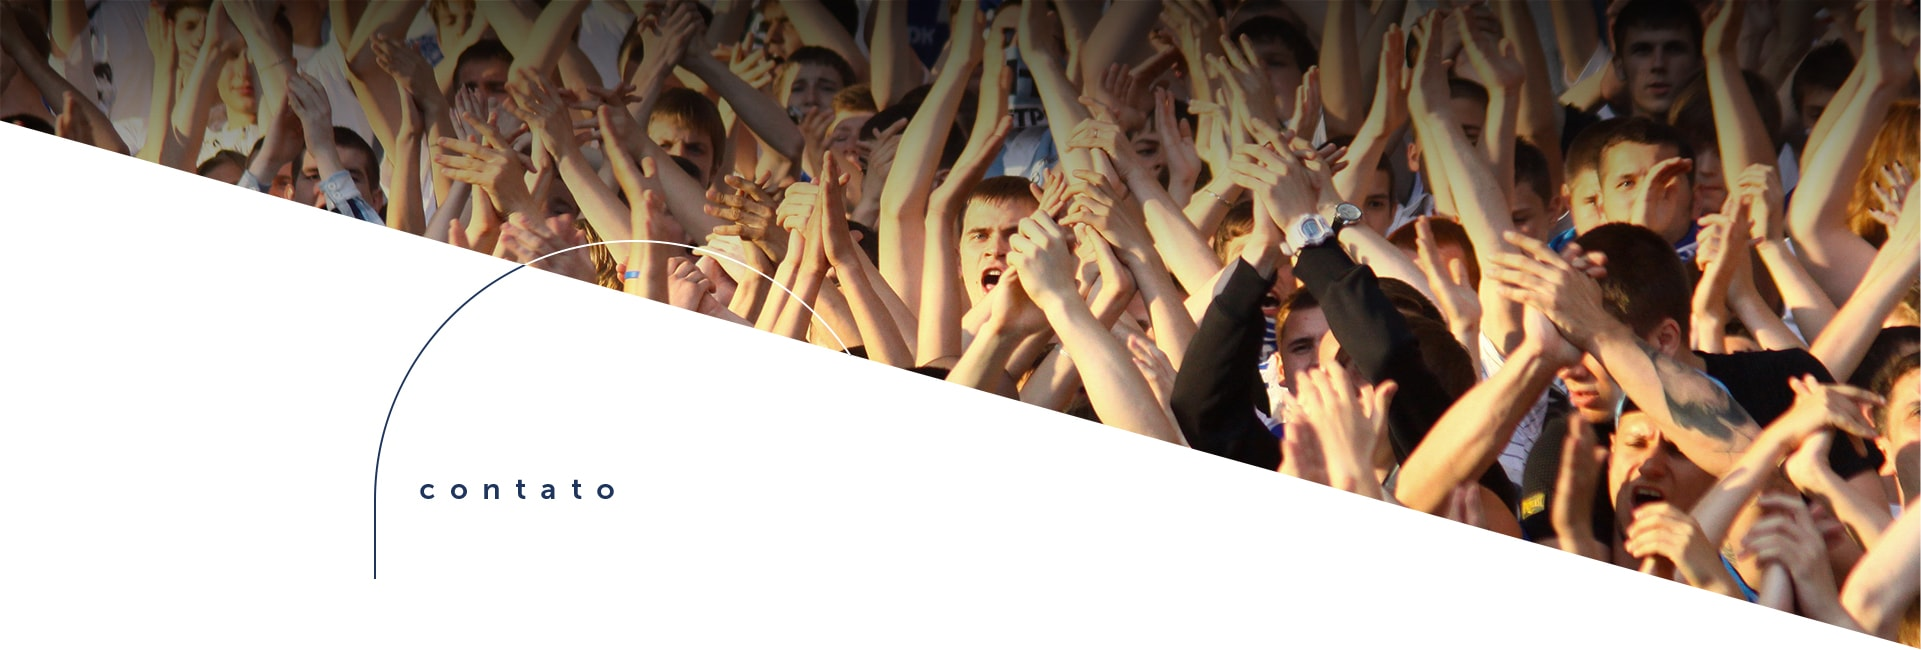
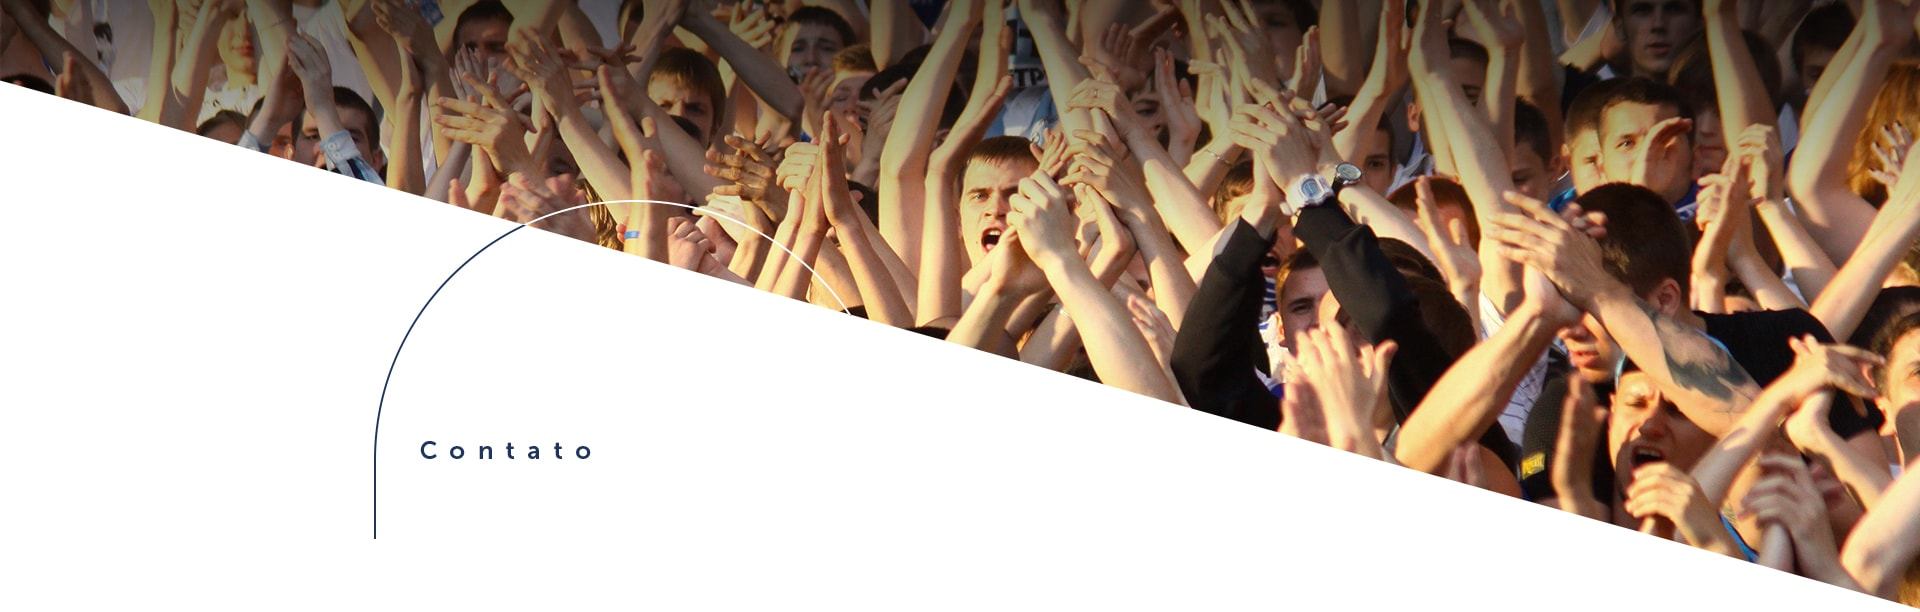
Ajustes layout

diff --git a/bsm/contato.html b/bsm/contato.html
@@ -35,36 +35,35 @@
                         </button>
                         <ul class="top-nav__link pages-menu hidden">
                             <li class="top-nav__link-first">
-                                <a href="index.html" class="top-nav__link-first" title="menu">menu</a>
+                                <a  class="top-nav__link-first" title="menu">Menu</a>
                             </li>
                             <li>
-                                <a href="" title="sobre">sobre</a>
+                                <a href="" title="sobre">Sobre</a>
                             </li>
                             <li>
-                                <a href="" title="brand">brand</a>
+                                <a href="" title="Boutique Sponsorship">Boutique Sponsorship</a>
                             </li>
                             <li>
-                                <a href="" title="mídia">mídia</a>
+                                <a href="" title="mídia">Mídia</a>
                             </li>
                             <li>
-                                <a href="" title="esportes & educação">esportes & educação</a>
+                                <a href="" title="esportes & educação">Sportes & Educação</a>
                             </li>
                             <li>
-                                <a href="" title="BSM no mundo">BSM no mundo</a>
+                                <a href="" title="BSM no mundo">BSM no Mundo</a>
                             </li>
                             <li>
-                                <a href="contato.html" title="contato">contato</a>
+                                <a href="contato.html" title="contato">Contato</a>
                             </li>
                         </ul>
 
                         <!-- Menu Mundos -->
-
                         <ul class="top-nav__link col-md-12 worlds-menu hidden">
                             <li class="col-md-12">
                                 <a class="top-nav__link-first" title="menu">BSM no mundo</a>
                             </li>
                             <li class="col-md-4">
-                                <a href="" title="BSM no mundo" class="col-md-12">américas</a>
+                                <a title="Américas" class="col-md-12">Américas</a>
                                 <ul class="col-md-12">
                                     <li>
                                         <ul>
@@ -88,11 +87,11 @@
                                             <li><span>México</span></li>
                                             <li class="worlds-menu-sub">Cidade do México</li>
                                         </ul>
-                                    </li>                                    
+                                    </li>
                                 </ul>
                             </li>
                             <li class="col-md-4">
-                                <a href="" title="BSM no mundo" class="col-md-12">europa</a>
+                                <a title="Europa" class="col-md-12">Europa</a>
                                 <ul class="col-md-12">
                                     <li>
                                         <ul>
@@ -103,11 +102,11 @@
                                             <li><span>PORTUGAL</span></li>
                                             <li class="worlds-menu-sub">Lisboa</li>
                                         </ul>
-                                    </li>                                    
+                                    </li>
                                 </ul>
                             </li>
                             <li class="col-md-4">
-                                <a href="" title="BSM no mundo" class="col-md-12">ásia</a>
+                                <a title="Ásia" class="col-md-12">Ásia</a>
                                 <ul class="col-md-12">
                                     <li>
                                         <ul>
@@ -126,11 +125,10 @@
                                             <li><span>EMIRADOS ÁRABES UNIDOS</span></li>
                                             <li class="worlds-menu-sub">Dubai</li>
                                         </ul>
-                                    </li>                                    
+                                    </li>
                                 </ul>
                             </li>
                         </ul>
-
                     </nav>
                     <div class="main buttonset">
                         <button id="showRightPush">
@@ -150,38 +148,39 @@
   			              <div class="row">
   			                <div class="col-md-6">
   			                  <div class="form-group">
-                            <label for="nome">nome</label>
-  			                    <input type="text" class="form-control" placeholder="coloque aqui o seu nome *" id="nome" required data-validation-required-message=" Insira seu Nome">
+                            <label for="nome">Nome</label>
+  			                    <input type="text" class="form-control" placeholder="Coloque aqui o seu nome *" id="nome" required data-validation-required-message=" Insira seu Nome">
   			                    <p class="help-block text-danger"></p>
   			                  </div>
                         </div>
                         <div class="col-md-6">
   			                  <div class="form-group">
-                            <label for="telefone">telefone</label>
-  			                    <input type="text" class="form-control" placeholder="(00) 00000-0000" id="telefone" required data-validation-required-message=" Insira seu Telefone">
+                            <label for="telefone">Telefone</label>
+  			                    <input type="text" class="form-control" placeholder="(00) 00000-0000 *" id="telefone" required data-validation-required-message=" Insira seu Telefone">
   			                    <p class="help-block text-danger"></p>
   			                  </div>
                         </div>
                         <div class="col-md-12">
   			                  <div class="form-group">
-                            <label for="email">e-mail</label>
-  			                    <input type="email" class="form-control" placeholder="coloque aqui o seu e-mail *" id="email" required data-validation-required-message=" Insira seu e-mail">
+                            <label for="email">E-mail</label>
+  			                    <input type="email" class="form-control" placeholder="Coloque aqui o seu e-mail *" id="email" required data-validation-required-message=" Insira seu e-mail">
   			                    <p class="help-block text-danger"></p>
   			                  </div>
   			                </div>
 
   			                <div class="col-md-12">
   			                  <div class="form-group">
-                            <label for="message">mensagem</label>
-  			                    <textarea class="form-control" placeholder="digite aqui a sua mensagem em até 500 caracteres *" id="message" required data-validation-required-message=" Insira sua menssagem" maxlength="500"></textarea>
+                            <label for="message">Mensagem</label>
+  			                    <textarea class="form-control" placeholder="Digite aqui a sua mensagem em até 500 caracteres *" id="message" required data-validation-required-message=" Insira sua menssagem" maxlength="500"></textarea>
   			                    <p class="help-block text-danger"></p>
   			                  </div>
+                          <p class="pull-right text-required">* Campos obrigatórios</p>
   			                </div>
   			                <div class="clearfix"></div>
   			                <div class="text-center">
   			                  <div class="col-lg-12 text-center">
   				                  <div id="success"></div>
-  				                  	<button type="submit" class="btn btn-xl2">Enviar</button>
+  				                  	<button type="submit" class="btn btn-xl2">enviar</button>
   				                </div>
   			                </div>
   			              </div>

diff --git a/bsm/index.html b/bsm/index.html
@@ -35,25 +35,25 @@
                         </button>
                         <ul class="top-nav__link pages-menu hidden">
                             <li class="top-nav__link-first">
-                                <a class="top-nav__link-first" title="menu">menu</a>
+                                <a class="top-nav__link-first" title="menu">Menu</a>
                             </li>
                             <li>
-                                <a href="" title="sobre">sobre</a>
+                                <a href="" title="sobre">Sobre</a>
                             </li>
                             <li>
-                                <a href="" title="brand">brand</a>
+                                <a href="" title="Boutique Sponsorship">Boutique Sponsorship</a>
                             </li>
                             <li>
-                                <a href="" title="mídia">mídia</a>
+                                <a href="" title="mídia">Mídia</a>
                             </li>
                             <li>
-                                <a href="" title="esportes & educação">esportes & educação</a>
+                                <a href="" title="esportes & educação">Sportes & Educação</a>
                             </li>
                             <li>
-                                <a href="" title="BSM no mundo">BSM no mundo</a>
+                                <a href="" title="BSM no mundo">BSM no Mundo</a>
                             </li>
                             <li>
-                                <a href="contato.html" title="contato">contato</a>
+                                <a href="contato.html" title="contato">Contato</a>
                             </li>
                         </ul>
 
@@ -64,7 +64,7 @@
                                 <a class="top-nav__link-first" title="menu">BSM no mundo</a>
                             </li>
                             <li class="col-md-4">
-                                <a href="" title="BSM no mundo" class="col-md-12">américas</a>
+                                <a title="Américas" class="col-md-12">Américas</a>
                                 <ul class="col-md-12">
                                     <li>
                                         <ul>
@@ -88,11 +88,11 @@
                                             <li><span>México</span></li>
                                             <li class="worlds-menu-sub">Cidade do México</li>
                                         </ul>
-                                    </li>                                    
+                                    </li>
                                 </ul>
                             </li>
                             <li class="col-md-4">
-                                <a href="" title="BSM no mundo" class="col-md-12">europa</a>
+                                <a title="Europa" class="col-md-12">Europa</a>
                                 <ul class="col-md-12">
                                     <li>
                                         <ul>
@@ -103,11 +103,11 @@
                                             <li><span>PORTUGAL</span></li>
                                             <li class="worlds-menu-sub">Lisboa</li>
                                         </ul>
-                                    </li>                                    
+                                    </li>
                                 </ul>
                             </li>
                             <li class="col-md-4">
-                                <a href="" title="BSM no mundo" class="col-md-12">ásia</a>
+                                <a title="Ásia" class="col-md-12">Ásia</a>
                                 <ul class="col-md-12">
                                     <li>
                                         <ul>
@@ -126,7 +126,7 @@
                                             <li><span>EMIRADOS ÁRABES UNIDOS</span></li>
                                             <li class="worlds-menu-sub">Dubai</li>
                                         </ul>
-                                    </li>                                    
+                                    </li>
                                 </ul>
                             </li>
                         </ul>
@@ -141,15 +141,15 @@
         </div>
         <div class="container container-hover">
             <div class="col-xs-12 col-sm-12 col-md-4">
-                <a class="box-hover">brand</a>
+                <a class="box-hover">Boutique <br>Sponsorship</a>
                 <span class="more-menu more-menu--close">+</span>
             </div>
             <div class="col-xs-12 col-sm-12 col-md-4">
-                <a class="box-hover">mídia</a>
+                <a class="box-hover">Mídia</a>
                 <span class="more-menu more-menu--close">+</span>
             </div>
             <div class="col-xs-12 col-sm-12 col-md-4">
-                <a class="box-hover">esportes & <br>educação</a>
+                <a class="box-hover">Esportes & <br>Educação</a>
                 <span class="more-menu more-menu--close">+</span>
             </div>
         </div>

diff --git a/bsm/css/style.css b/bsm/css/style.css
@@ -1606,6 +1606,14 @@ ul.top-nav__link li a.top-nav__link-first:hover {
     padding: 20px 25px;
 }
 
+#contact textarea.form-control {
+  max-width: 1110px;
+}
+
+#contact .text-required {
+  color: 000000;
+  font-size: 12.5px;
+}
 
 #contact label {
   color: #000000;
@@ -1634,10 +1642,10 @@ ul.top-nav__link li a.top-nav__link-first:hover {
     color: #fff;
     float: left;
     width: 290px;
-    padding: 19px 0;
+    padding: 5.5px 0;
     border-radius: 50px;
     font-family: 'Museo Sans 300';
-    font-size: 25px;
+    font-size: 19px;
     letter-spacing: 13px;
     margin-top: 30px;
 }
@@ -1681,7 +1689,7 @@ footer {
 .cbp-spmenu-vertical ul.worlds-menu li {
     width: none;
     text-align: left;
-    padding: 1em 0.4em;
+    padding: 0.4em 0.4em;
 }
 
 .cbp-spmenu-vertical ul.worlds-menu li span {

diff --git a/bsm-angular-4/bsm-a4/src/app/app.component.html b/bsm-angular-4/bsm-a4/src/app/app.component.html
@@ -1,2 +1,2 @@
 <component-header></component-header>
-<router-outlet (activate)="onActivate($event)"></router-outlet>
+<router-outlet></router-outlet>
